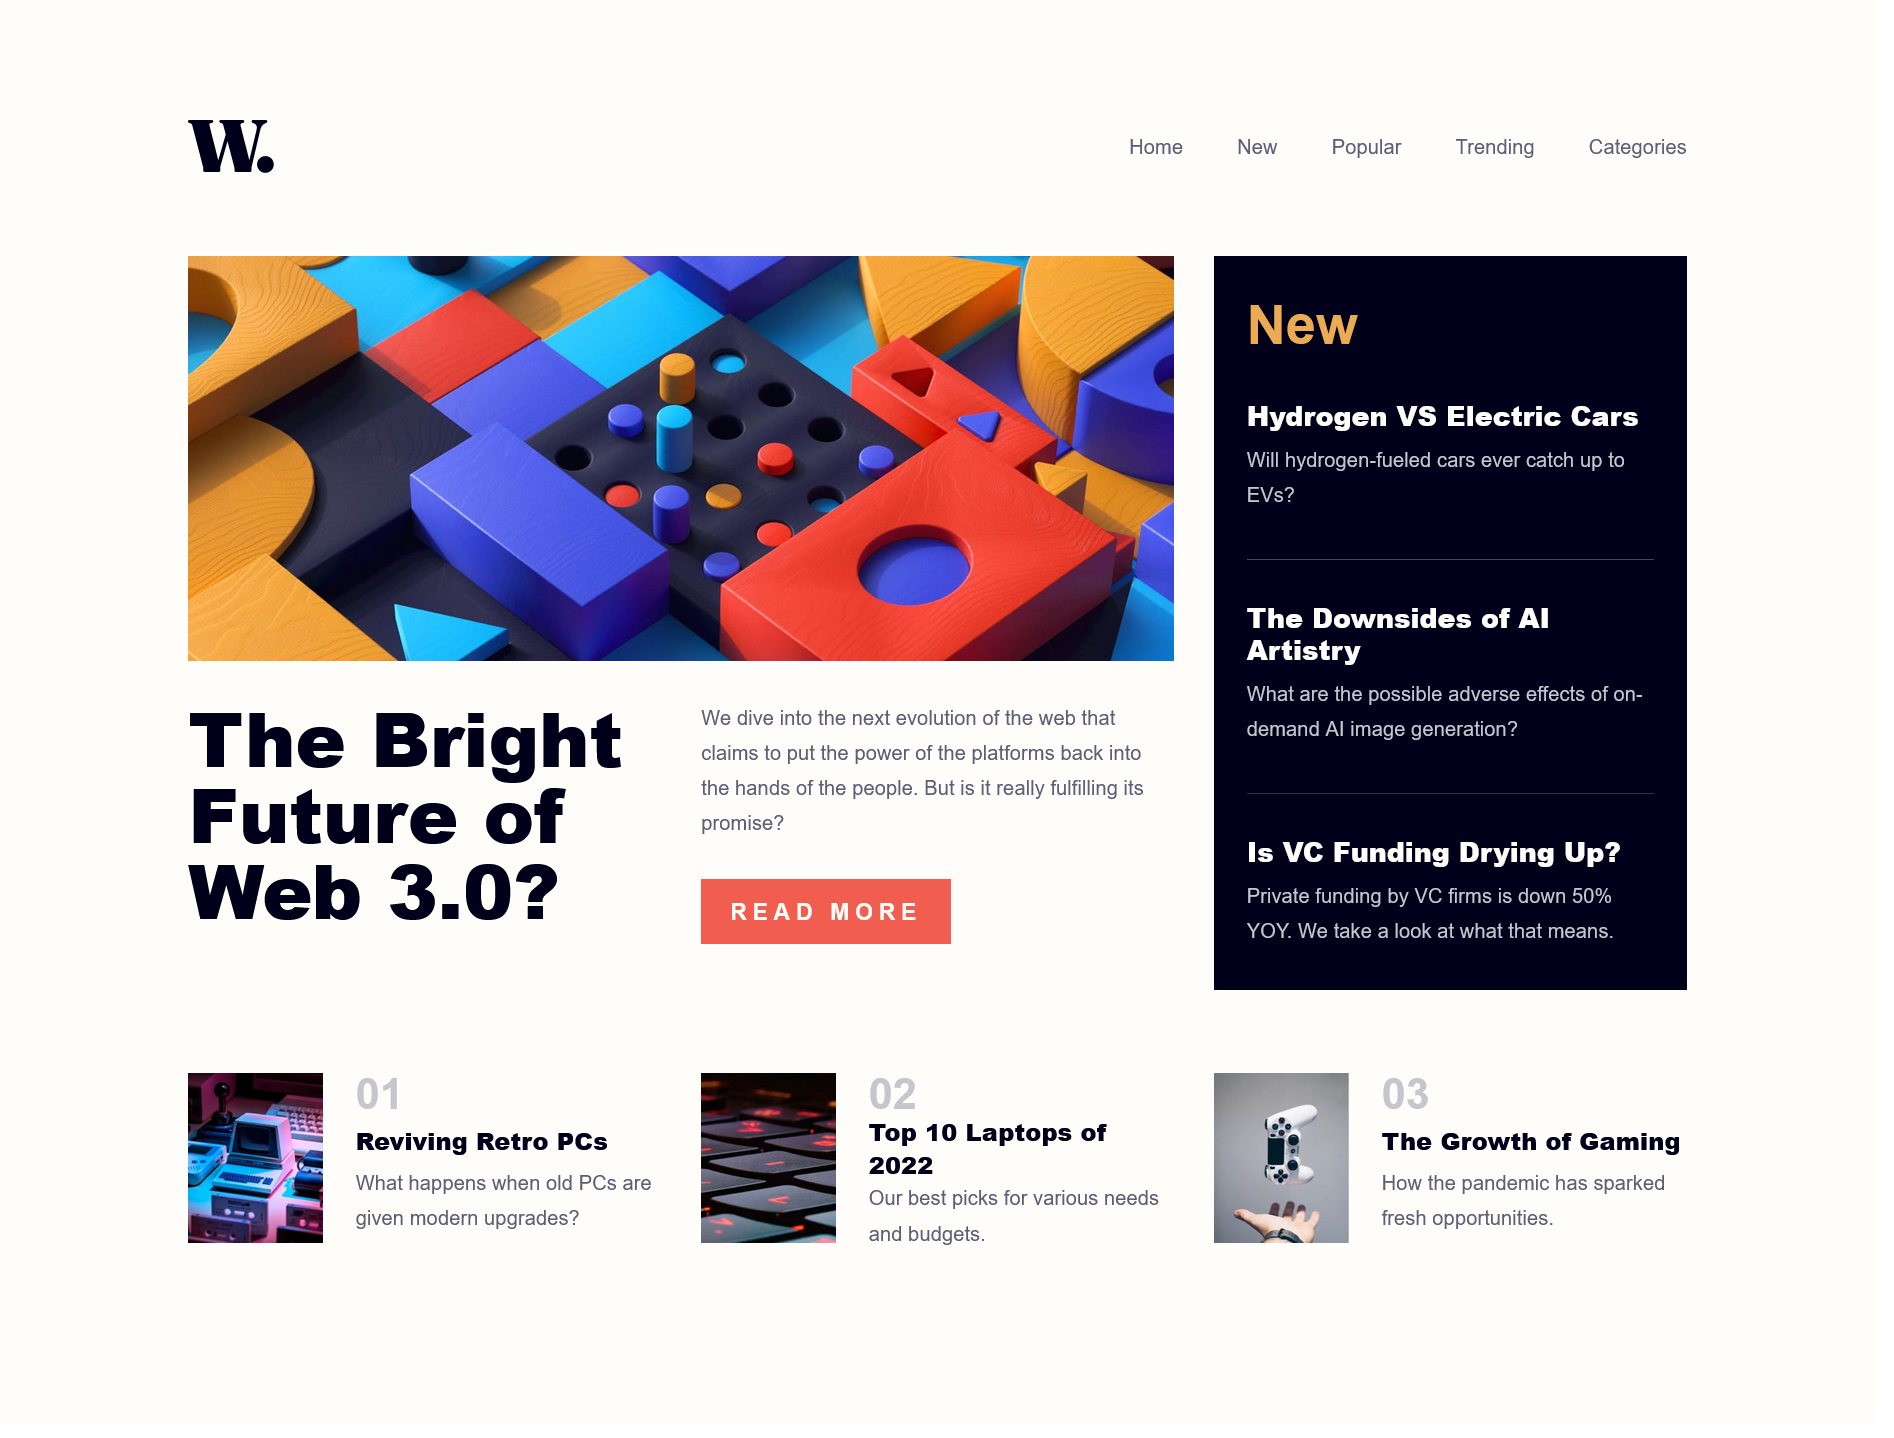
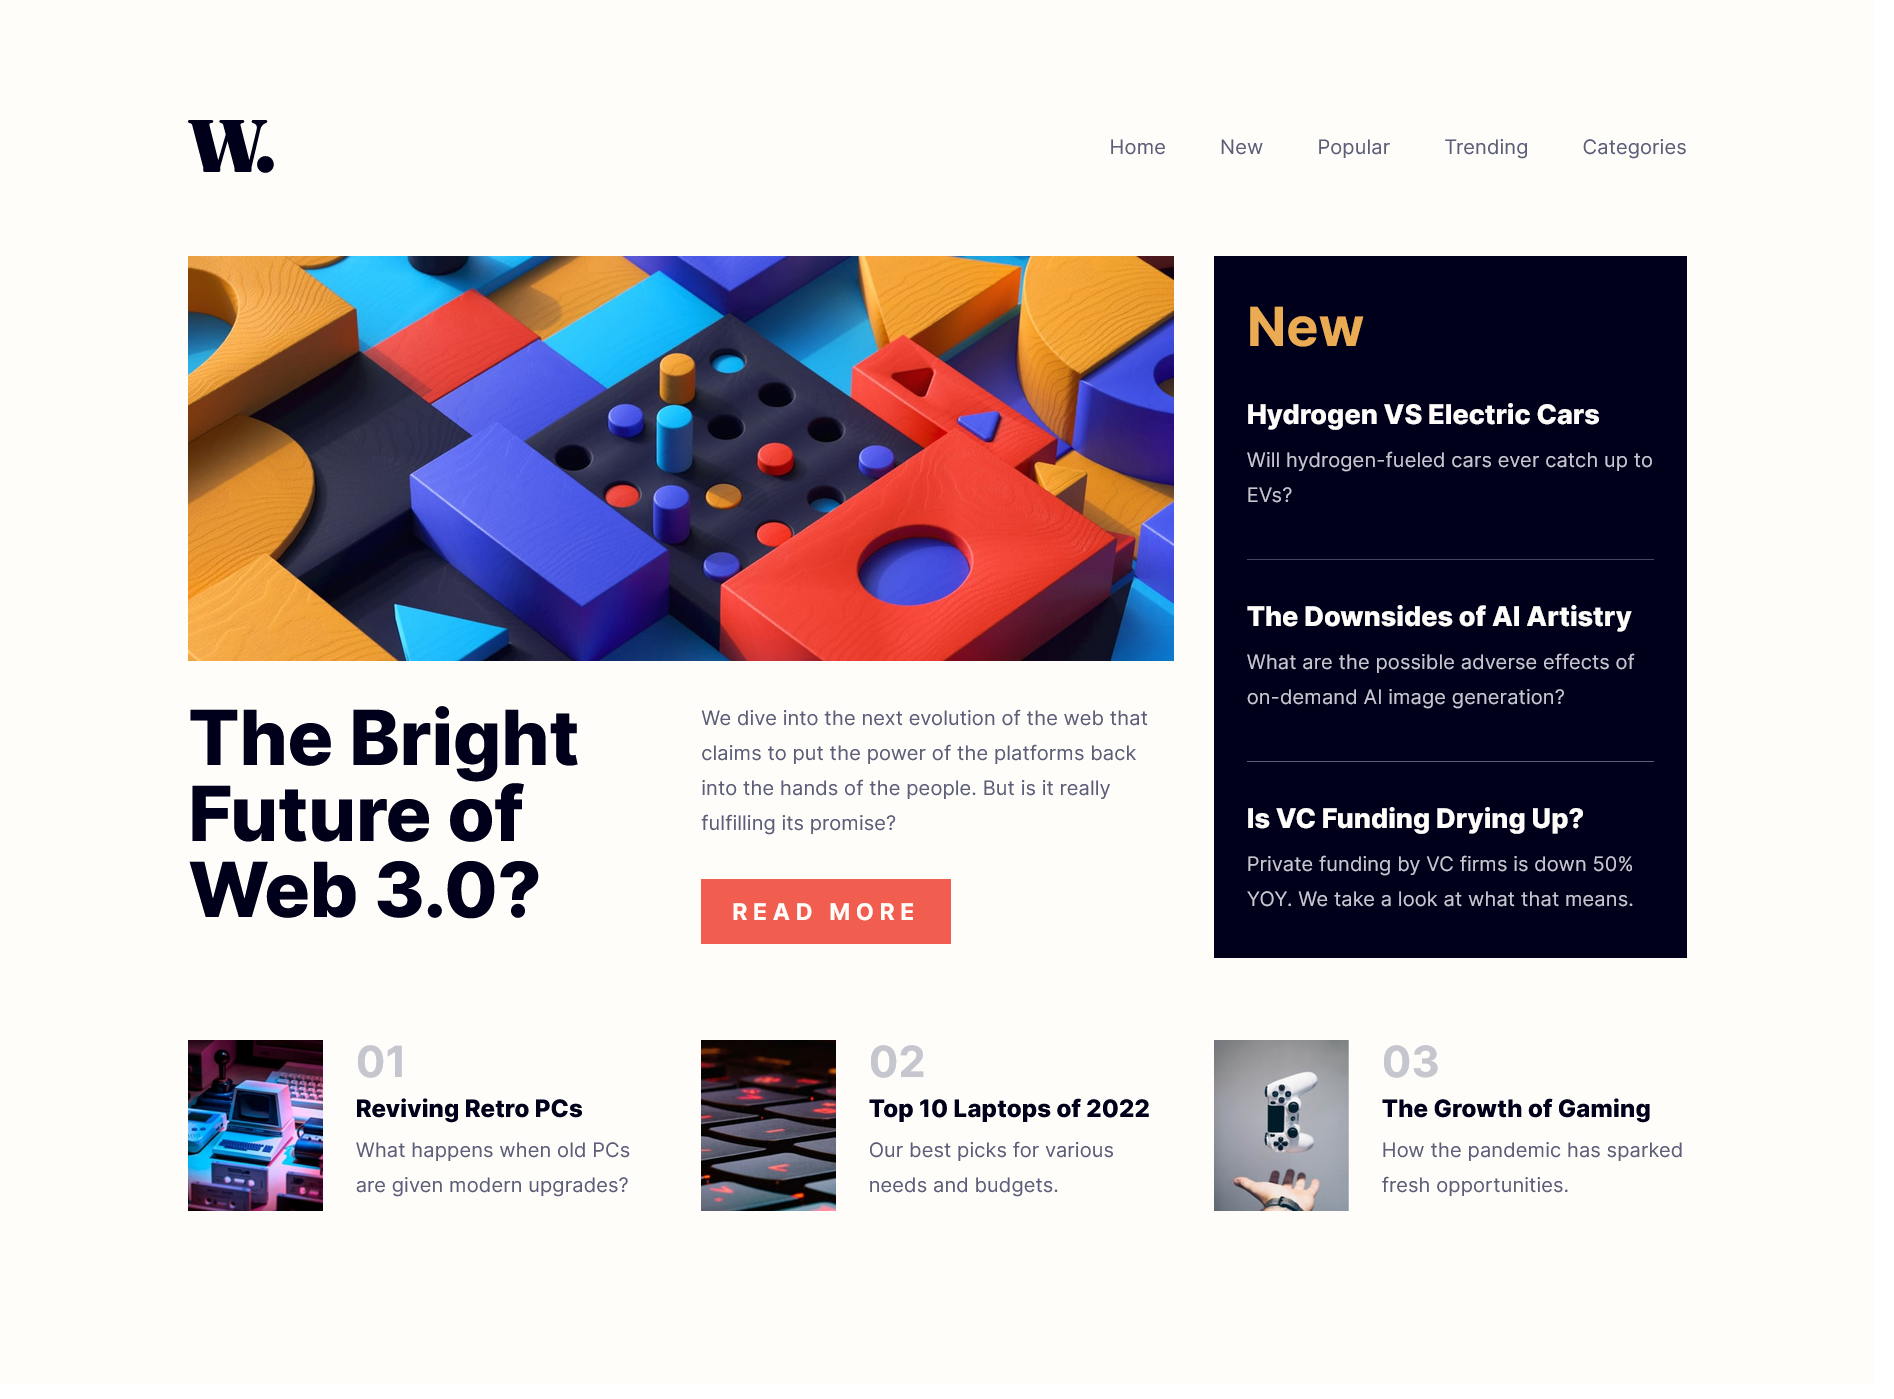
Updating index.html

diff --git a/docs/index.html b/docs/index.html
@@ -8,6 +8,13 @@
       href="./assets/images/favicon-32x32.png" />
     <meta name="viewport" content="width=device-width, initial-scale=1.0" />
     <title>News homepage</title>
+    <!-- Fonts -->
+    <link rel="preconnect" href="https://fonts.googleapis.com" />
+    <link rel="preconnect" href="https://fonts.gstatic.com" crossorigin />
+    <link
+      href="https://fonts.googleapis.com/css2?family=Inter:wght@400;700;800&display=swap"
+      rel="stylesheet" />
+
     <!-- Facebook Meta Tags -->
     <meta
       property="og:url"

diff --git a/index.html b/index.html
@@ -8,6 +8,13 @@
       href="./assets/images/favicon-32x32.png" />
     <meta name="viewport" content="width=device-width, initial-scale=1.0" />
     <title>News homepage</title>
+    <!-- Fonts -->
+    <link rel="preconnect" href="https://fonts.googleapis.com" />
+    <link rel="preconnect" href="https://fonts.gstatic.com" crossorigin />
+    <link
+      href="https://fonts.googleapis.com/css2?family=Inter:wght@400;700;800&display=swap"
+      rel="stylesheet" />
+
     <!-- Facebook Meta Tags -->
     <meta
       property="og:url"
